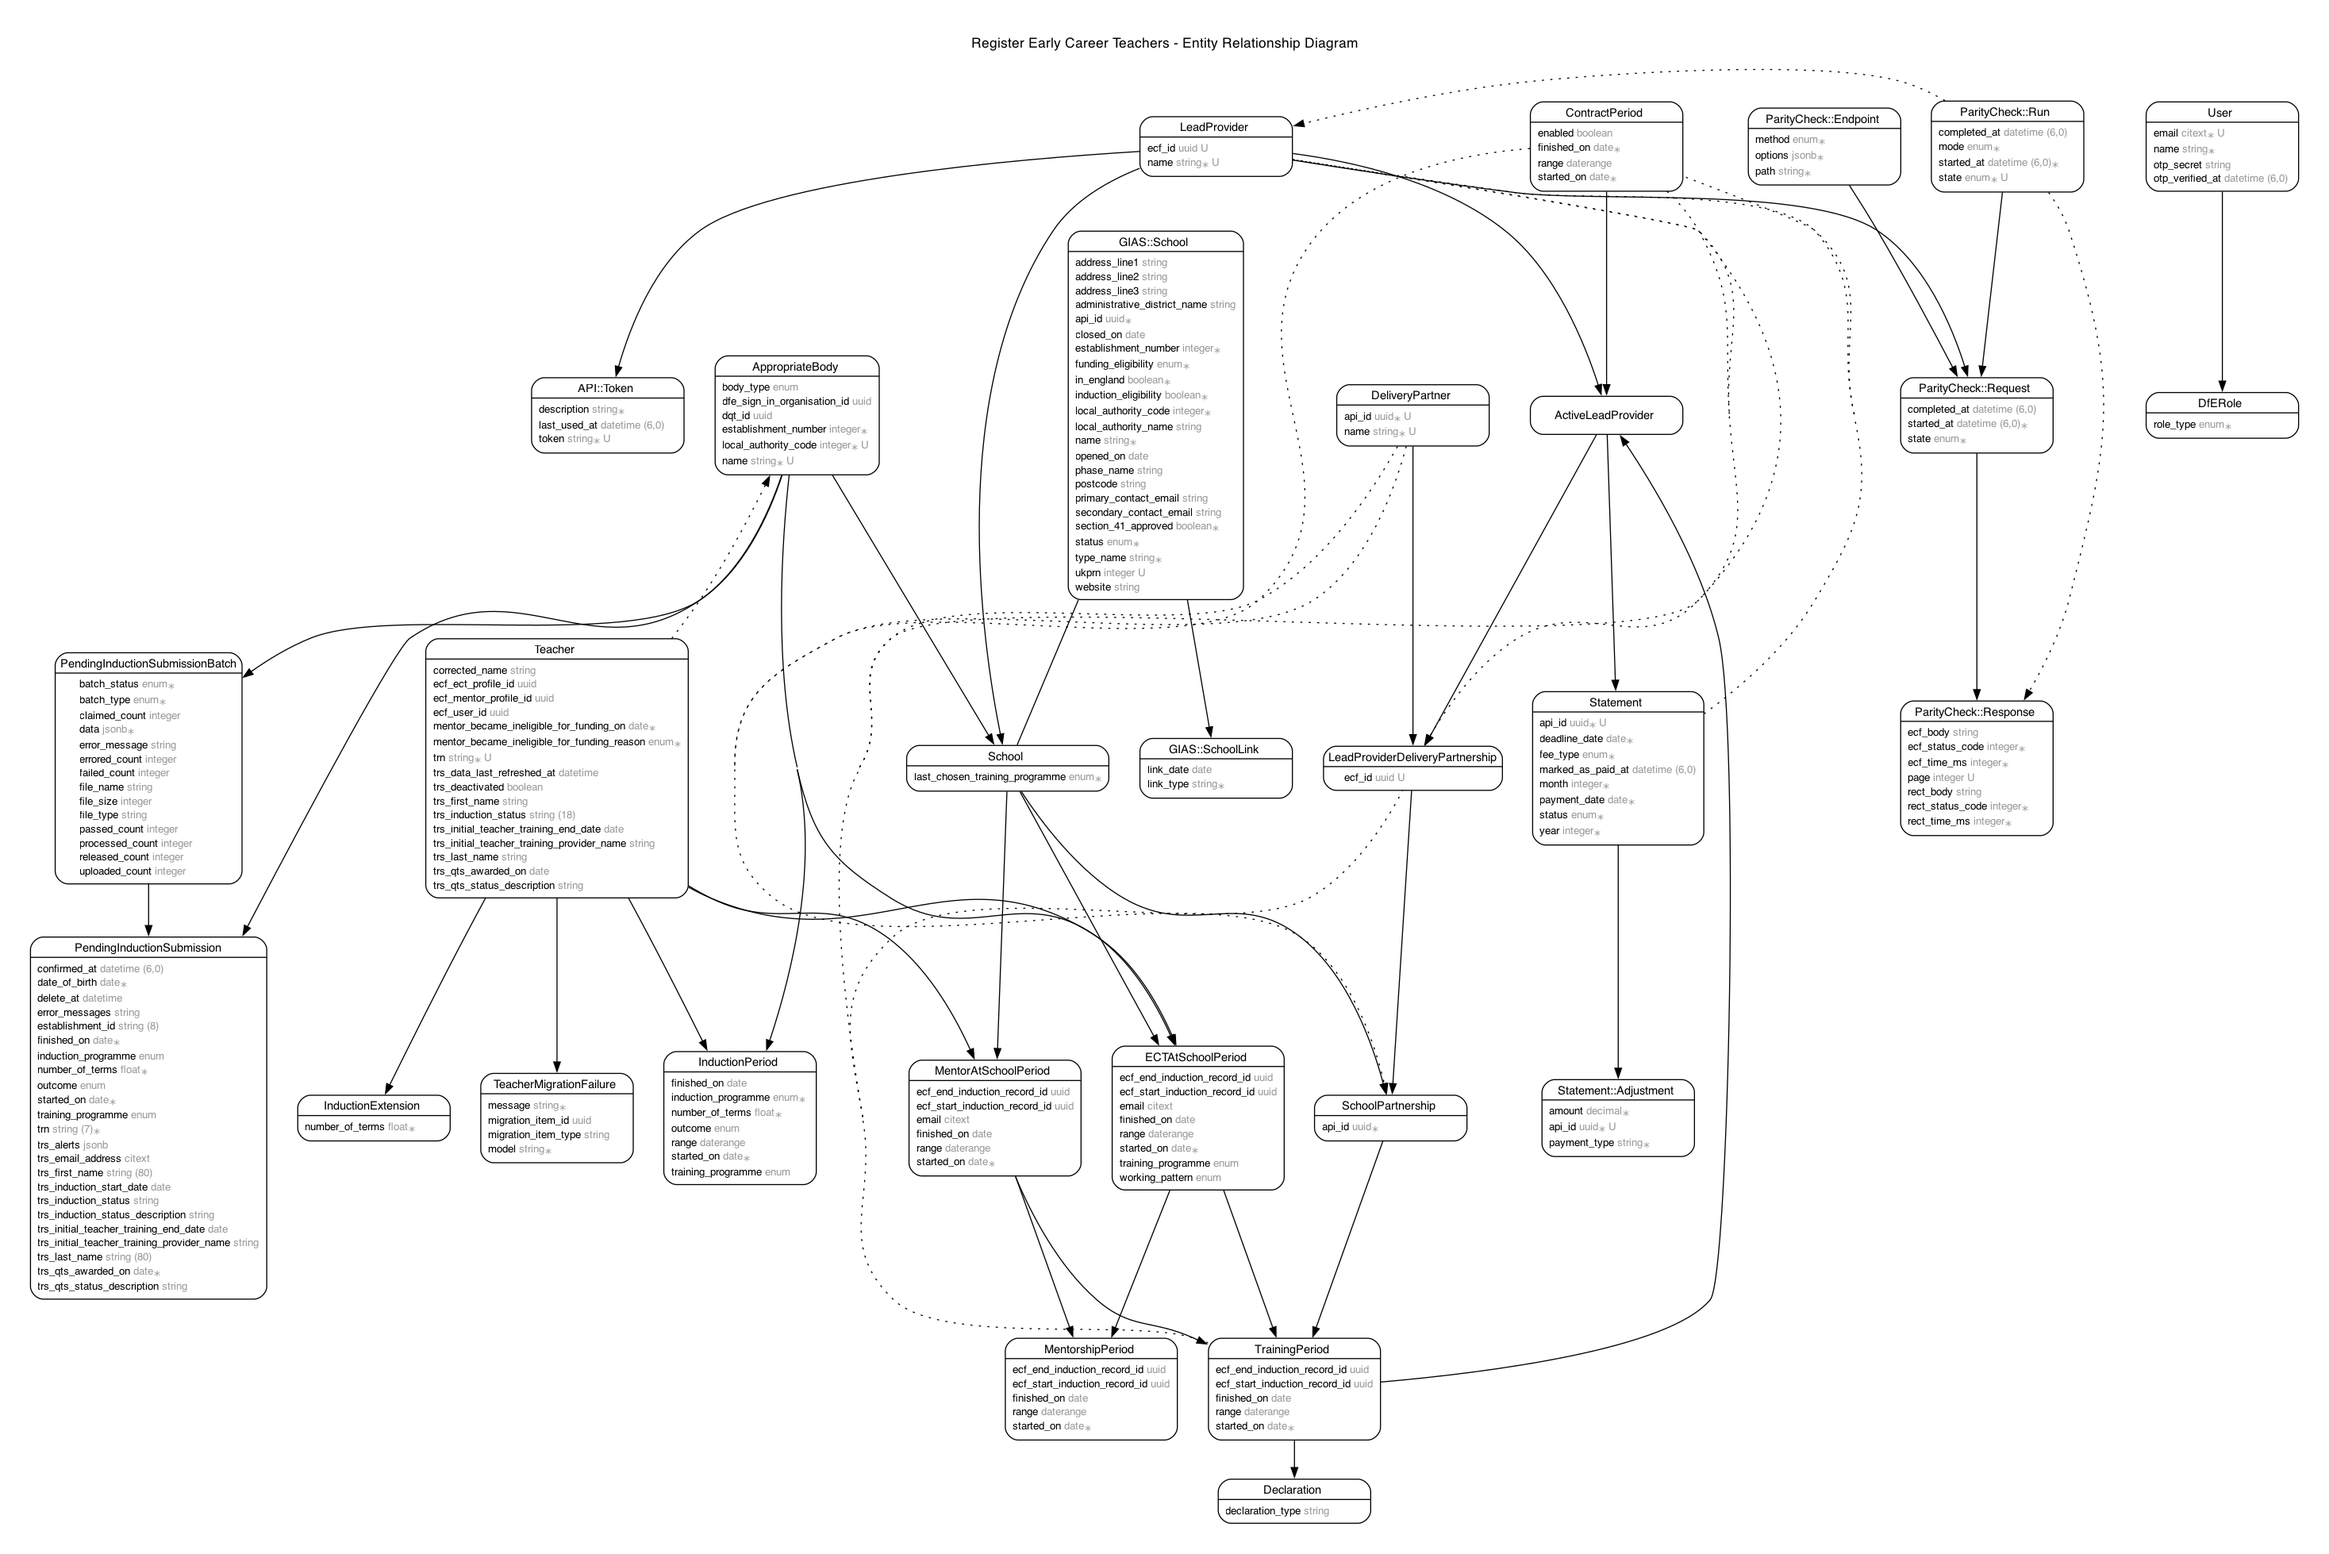
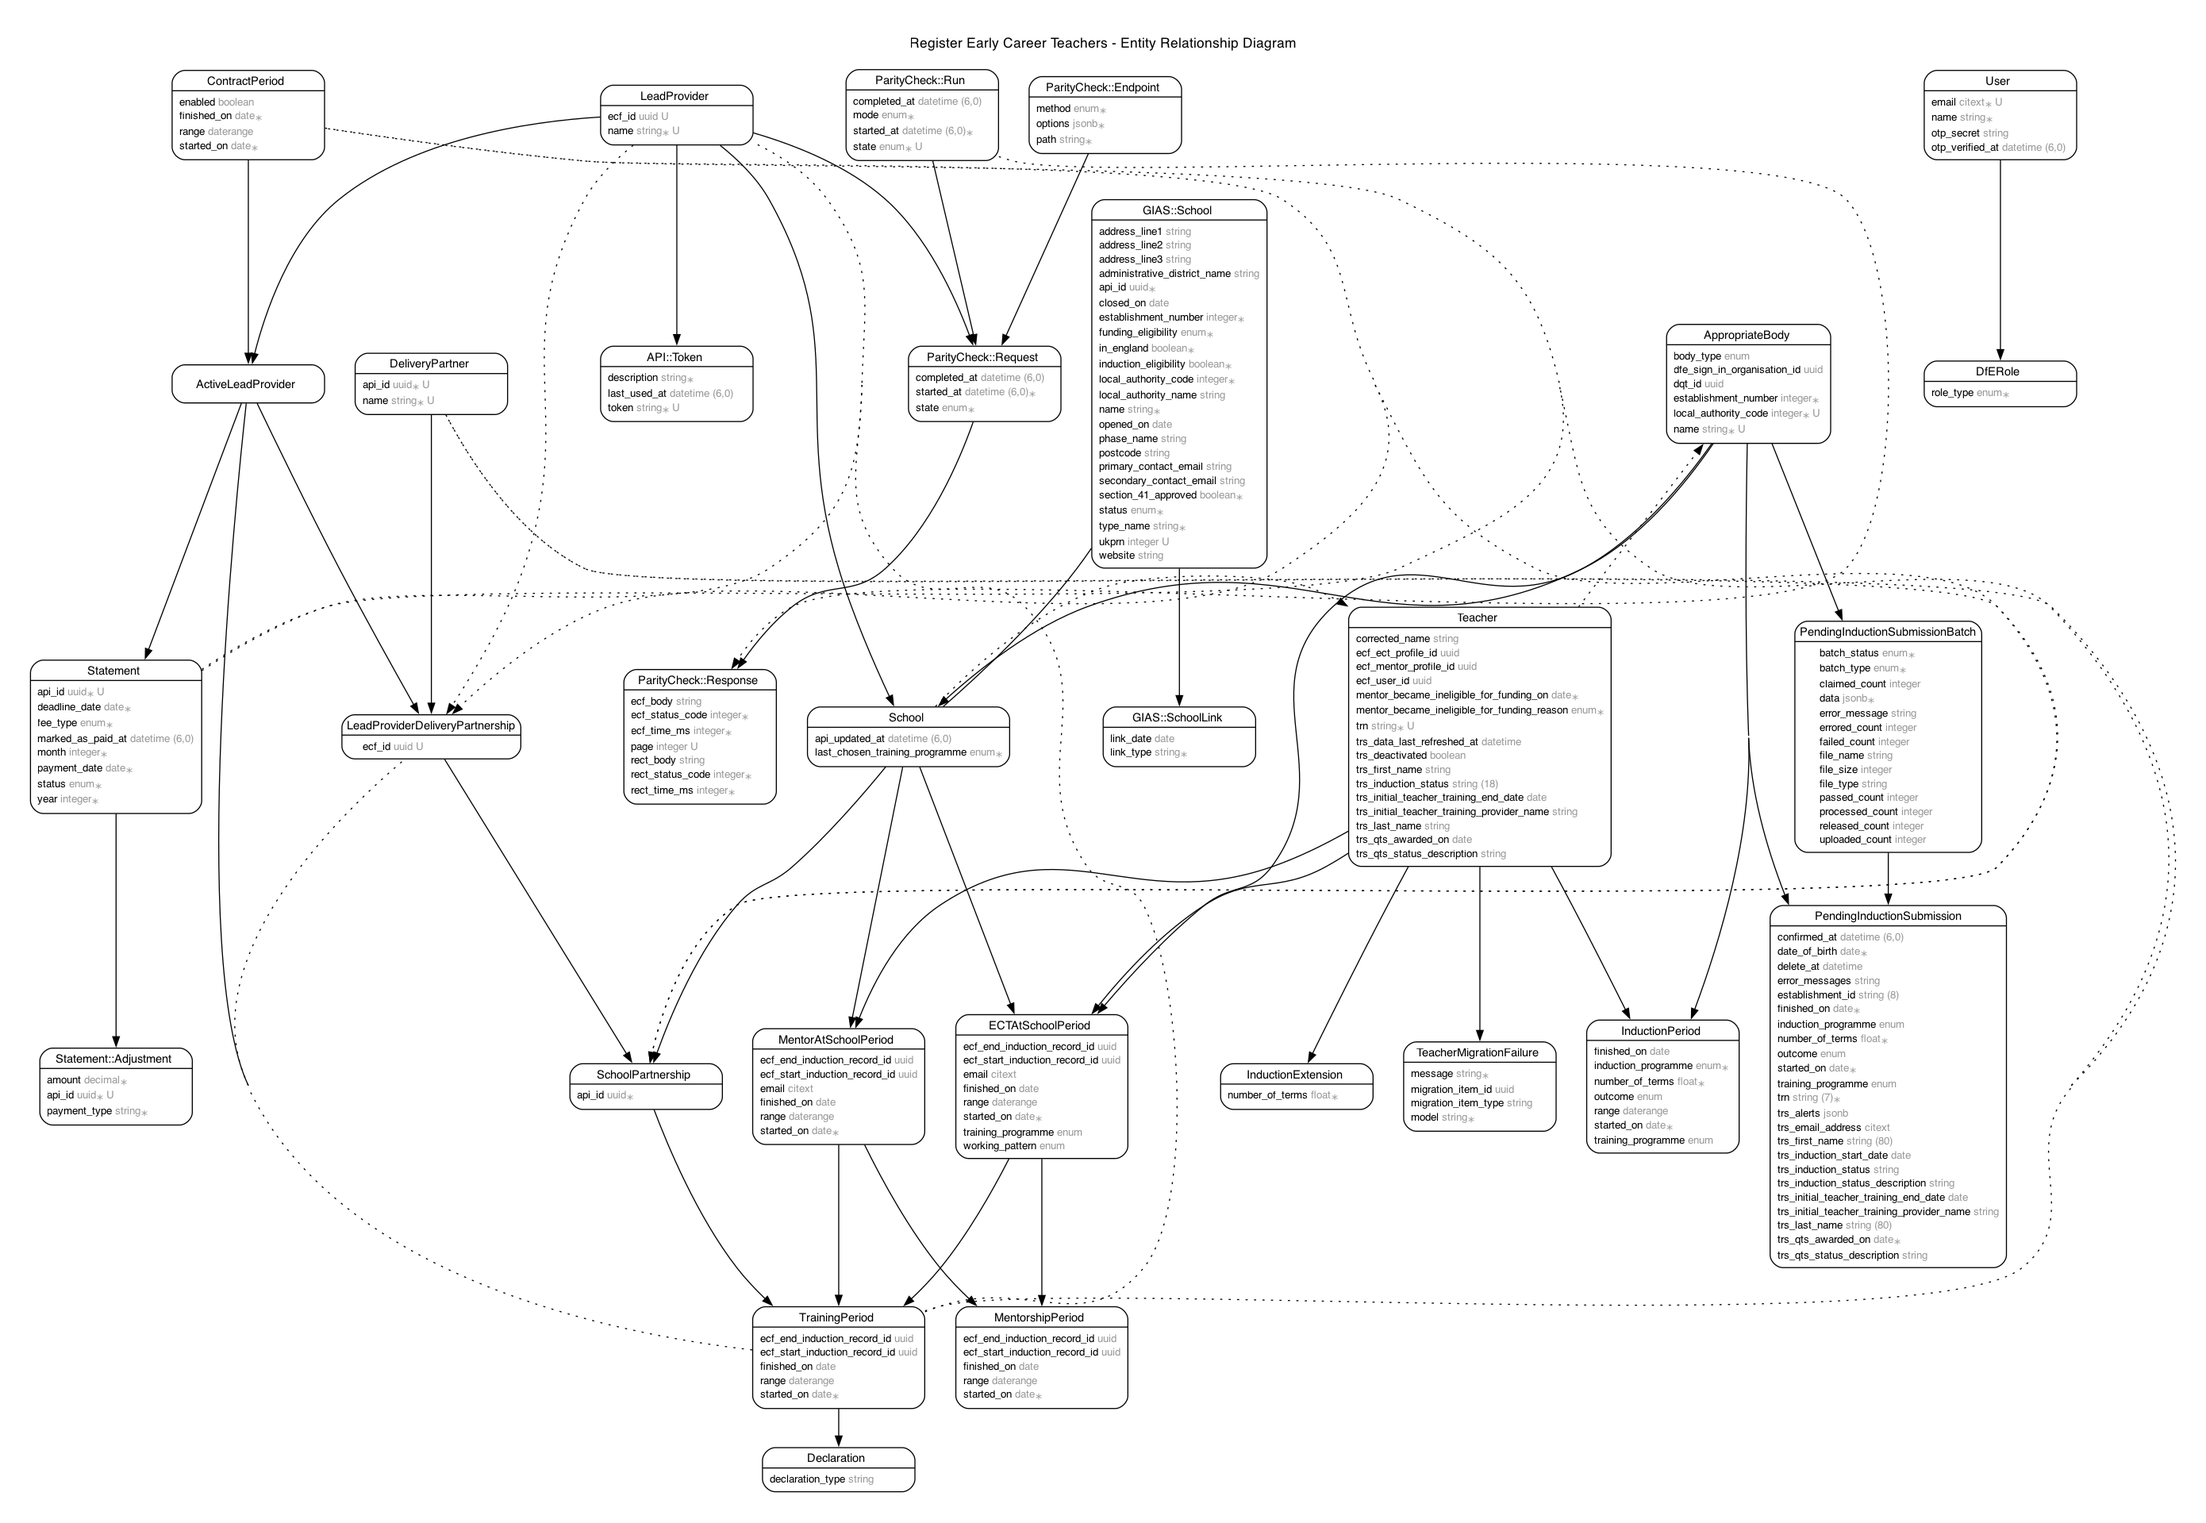
Add `api_updated_at` to `School`
We want to surface the schools relative to a given `updated_since` in the API,
but only when certain fields are changed (the ones that we return, serialized).

Add an `api_updated_at` attribute to `School` that we can touch when a field we
expose over the API is changed (this may be on a related model, not just
`School`).

diff --git a/db/schema.rb b/db/schema.rb
@@ -10,7 +10,7 @@
 #
 # It's strongly recommended that you check this file into your version control system.
 
-ActiveRecord::Schema[8.0].define(version: 2025_07_14_101747) do
+ActiveRecord::Schema[8.0].define(version: 2025_07_16_140403) do
   # These are extensions that must be enabled in order to support this database
   enable_extension "citext"
   enable_extension "pg_catalog.plpgsql"
@@ -503,6 +503,7 @@ ActiveRecord::Schema[8.0].define(version: 2025_07_14_101747) do
     t.bigint "last_chosen_appropriate_body_id"
     t.bigint "last_chosen_lead_provider_id"
     t.enum "last_chosen_training_programme", enum_type: "training_programme"
+    t.datetime "api_updated_at", default: -> { "CURRENT_TIMESTAMP" }
     t.index ["last_chosen_appropriate_body_id"], name: "index_schools_on_last_chosen_appropriate_body_id"
     t.index ["last_chosen_lead_provider_id"], name: "index_schools_on_last_chosen_lead_provider_id"
     t.index ["urn"], name: "schools_unique_urn", unique: true

diff --git a/db/migrate/20250716140403_add_api_updated_at_to_schools.rb b/db/migrate/20250716140403_add_api_updated_at_to_schools.rb
@@ -1,0 +1,5 @@
+class AddAPIUpdatedAtToSchools < ActiveRecord::Migration[8.0]
+  def change
+    add_column :schools, :api_updated_at, :datetime, default: -> { "CURRENT_TIMESTAMP" }
+  end
+end
